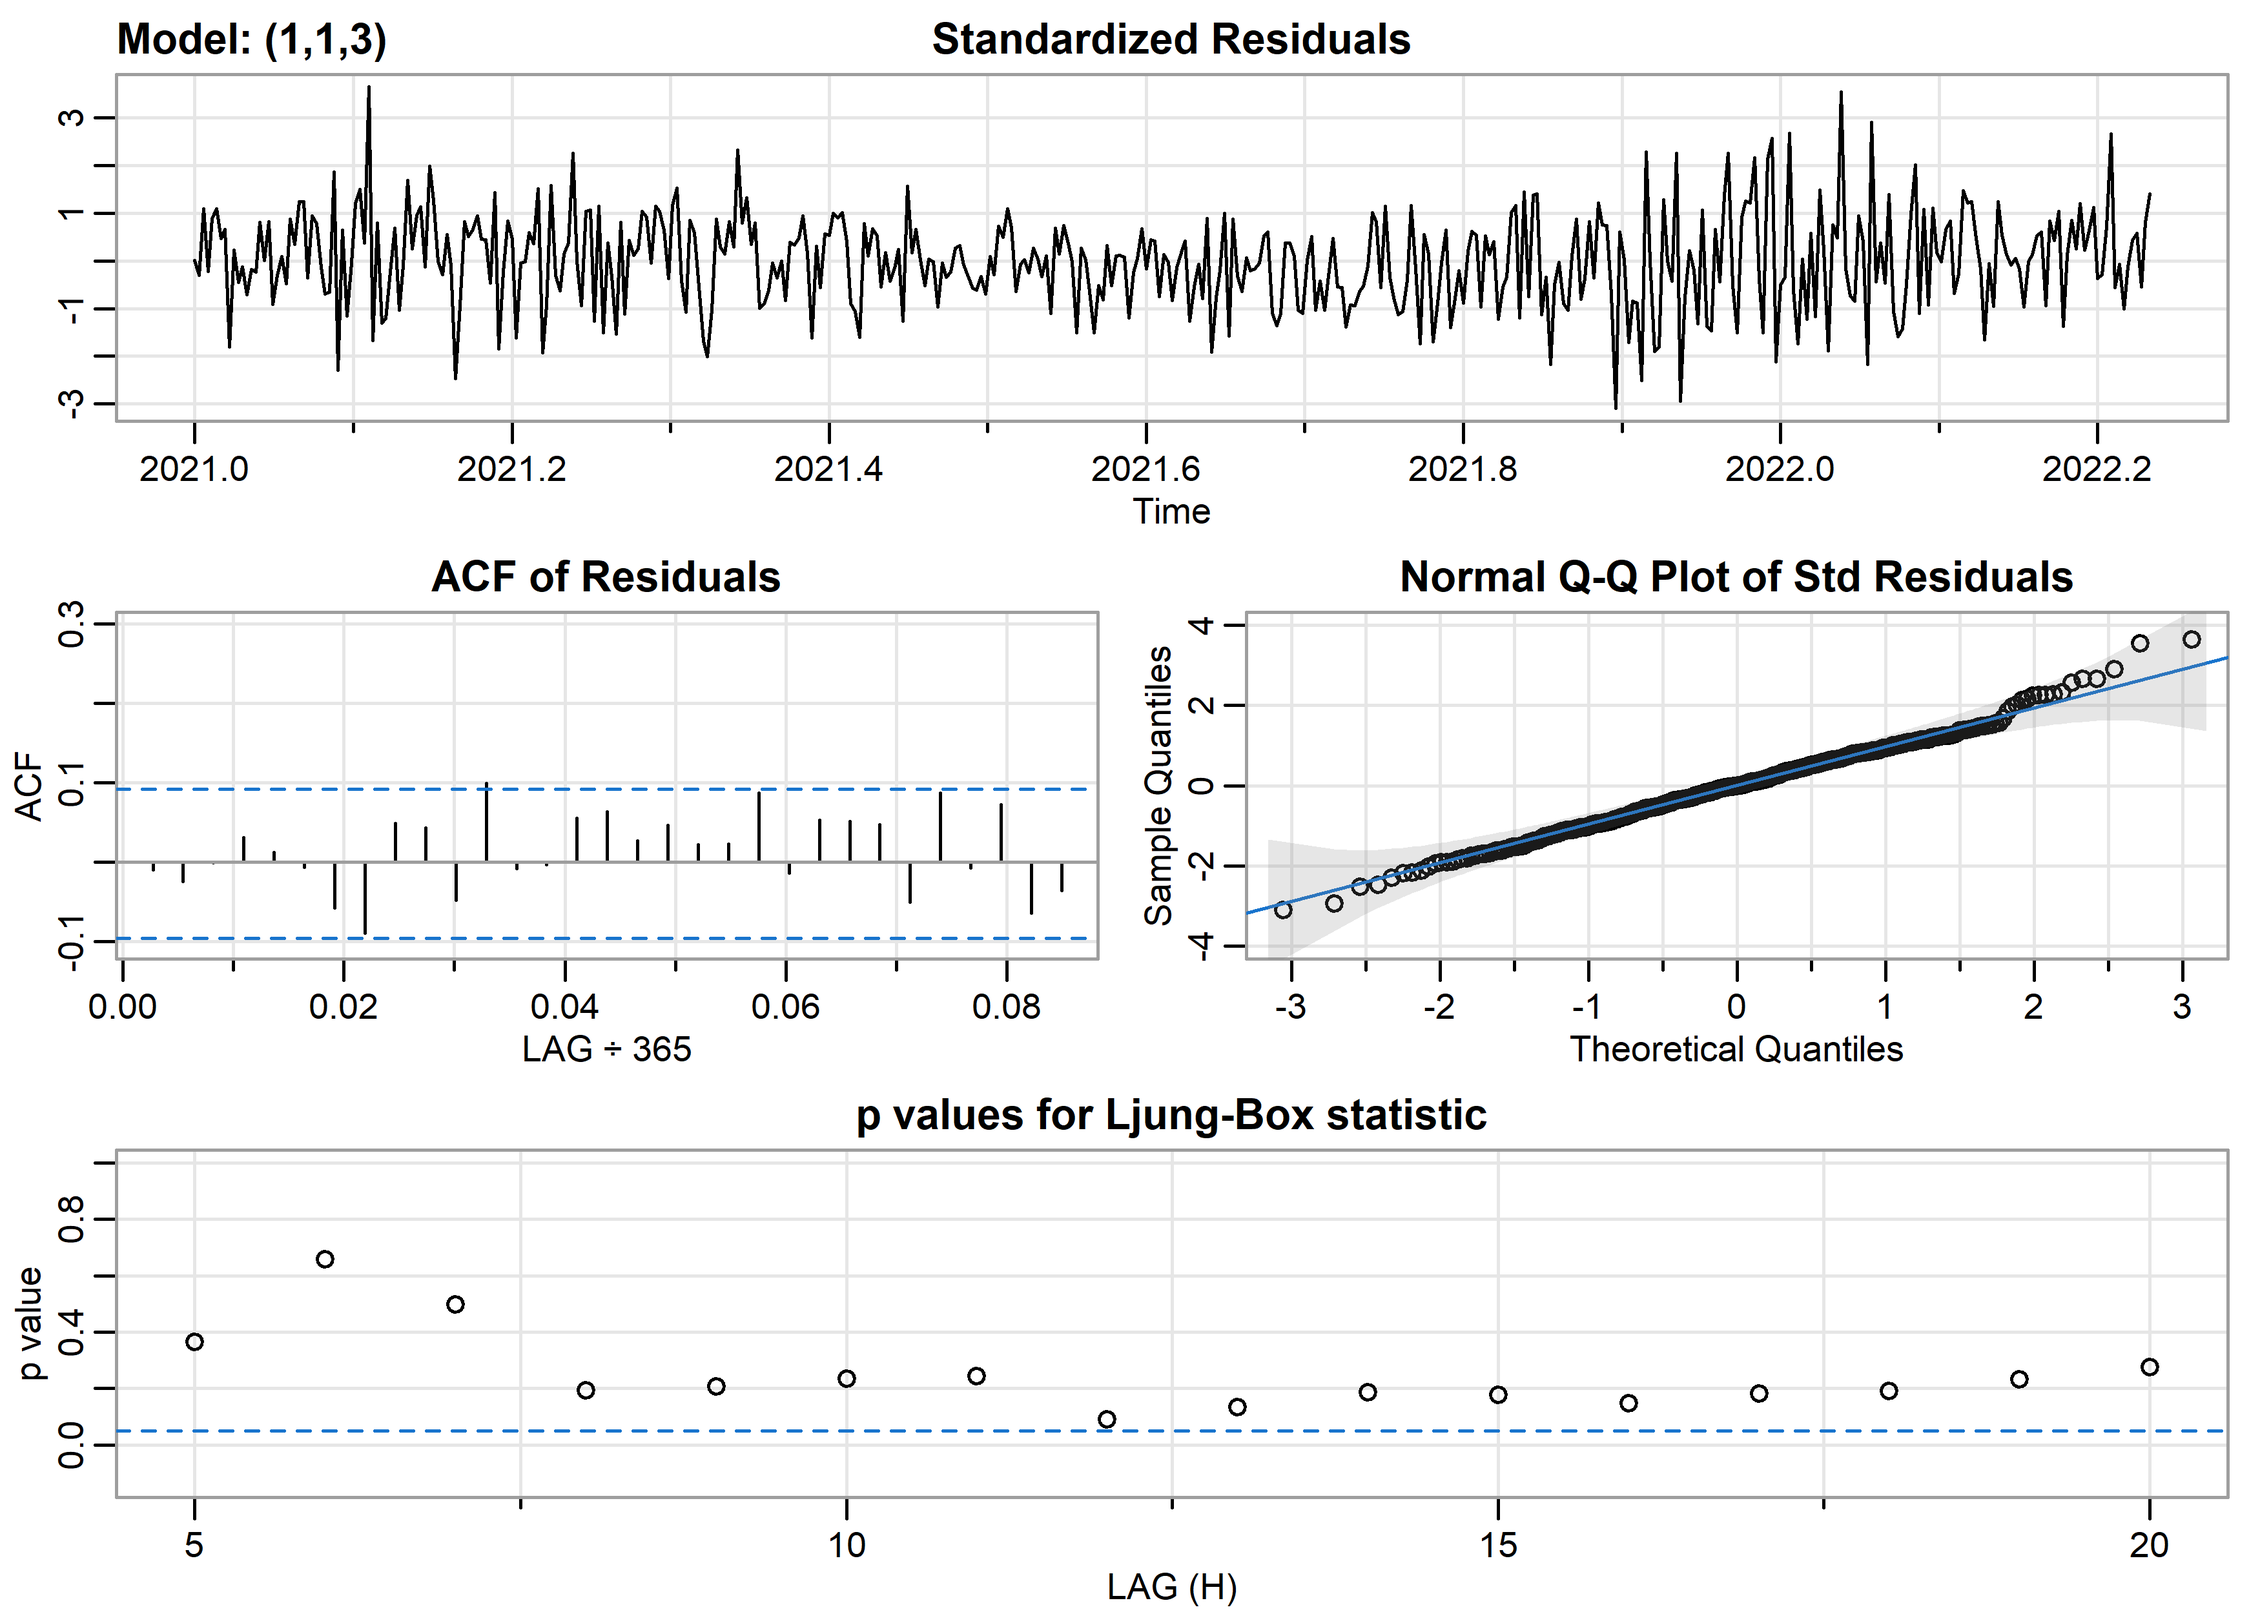
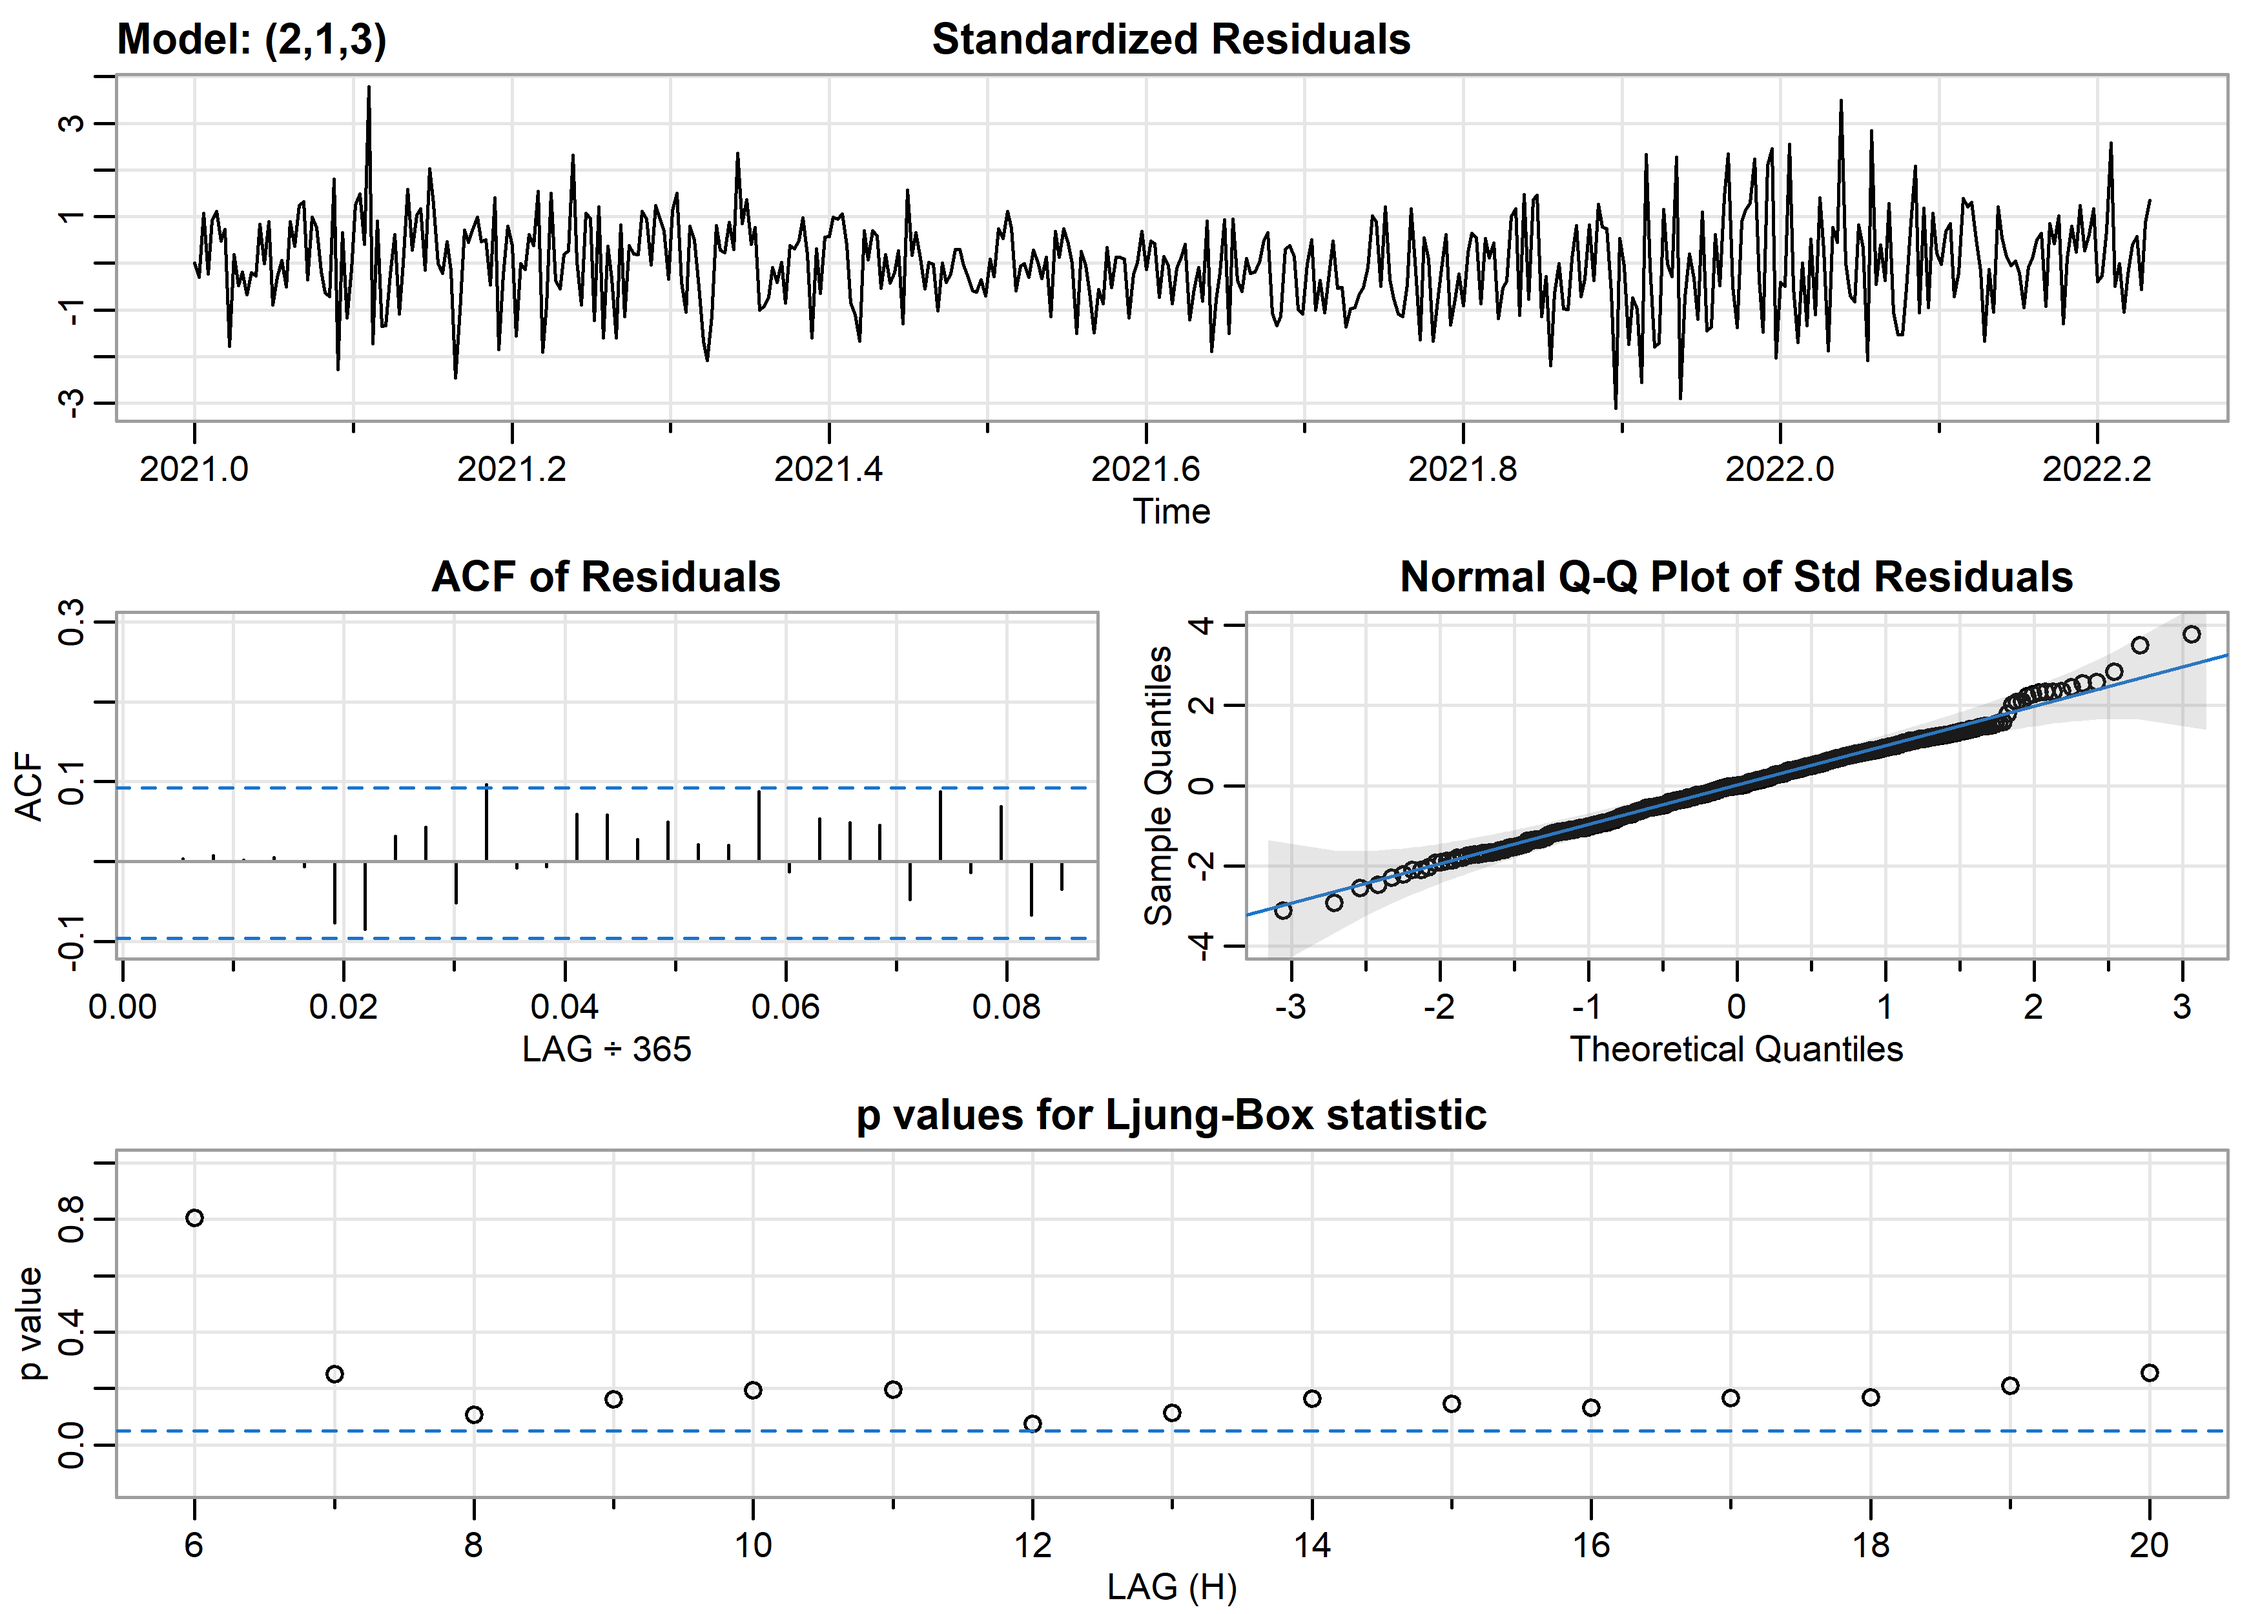
text in between code

diff --git a/12-20-22/Weather-Forecasts.md b/12-20-22/Weather-Forecasts.md
@@ -366,7 +366,10 @@ nycseries <- ny_weather %>%
 
 ### ARIMA
 
+Using the *astsa* and *forcast* packages to fit an ARIMA model.
+
 ``` r
+# convert data to a timeseries object
 nyctz <- ts(nycseries$observed_temp, start = c(2021,01,30), frequency = 365)
 ```
 
@@ -384,6 +387,101 @@ auto.arima(nyctz)
     ## 
     ## sigma^2 = 36.17:  log likelihood = -1443.8
     ## AIC=2899.6   AICc=2899.79   BIC=2924.26
+
+``` r
+sarima(nyctz, 2,1,3)
+```
+
+    ## initial  value 1.931556 
+    ## iter   2 value 1.863887
+    ## iter   3 value 1.829475
+    ## iter   4 value 1.804175
+    ## iter   5 value 1.794467
+    ## iter   6 value 1.793552
+    ## iter   7 value 1.791739
+    ## iter   8 value 1.790720
+    ## iter   9 value 1.790587
+    ## iter  10 value 1.790387
+    ## iter  11 value 1.790215
+    ## iter  12 value 1.790012
+    ## iter  13 value 1.789753
+    ## iter  14 value 1.789114
+    ## iter  15 value 1.788517
+    ## iter  16 value 1.788440
+    ## iter  17 value 1.787989
+    ## iter  18 value 1.787808
+    ## iter  19 value 1.787680
+    ## iter  20 value 1.787570
+    ## iter  21 value 1.787475
+    ## iter  22 value 1.787300
+    ## iter  23 value 1.787131
+    ## iter  24 value 1.787040
+    ## iter  25 value 1.787011
+    ## iter  26 value 1.787011
+    ## iter  26 value 1.787011
+    ## iter  26 value 1.787011
+    ## final  value 1.787011 
+    ## converged
+    ## initial  value 1.788080 
+    ## iter   2 value 1.788067
+    ## iter   3 value 1.788062
+    ## iter   4 value 1.788060
+    ## iter   5 value 1.788058
+    ## iter   6 value 1.788058
+    ## iter   7 value 1.788058
+    ## iter   8 value 1.788057
+    ## iter   9 value 1.788057
+    ## iter  10 value 1.788057
+    ## iter  11 value 1.788057
+    ## iter  12 value 1.788057
+    ## iter  12 value 1.788057
+    ## iter  12 value 1.788057
+    ## final  value 1.788057 
+    ## converged
+
+![](Weather-Forecasts_files/figure-gfm/unnamed-chunk-20-1.png)<!-- -->
+
+    ## $fit
+    ## 
+    ## Call:
+    ## arima(x = xdata, order = c(p, d, q), seasonal = list(order = c(P, D, Q), period = S), 
+    ##     xreg = constant, transform.pars = trans, fixed = fixed, optim.control = list(trace = trc, 
+    ##         REPORT = 1, reltol = tol))
+    ## 
+    ## Coefficients:
+    ##           ar1     ar2     ma1      ma2      ma3  constant
+    ##       -0.4226  -0.119  0.2837  -0.4649  -0.4022    0.0889
+    ## s.e.   0.1600   0.103  0.1541   0.0936   0.0756    0.0770
+    ## 
+    ## sigma^2 estimated as 35.66:  log likelihood = -1443.15,  aic = 2900.3
+    ## 
+    ## $degrees_of_freedom
+    ## [1] 444
+    ## 
+    ## $ttable
+    ##          Estimate     SE t.value p.value
+    ## ar1       -0.4226 0.1600 -2.6415  0.0085
+    ## ar2       -0.1190 0.1030 -1.1551  0.2487
+    ## ma1        0.2837 0.1541  1.8416  0.0662
+    ## ma2       -0.4649 0.0936 -4.9677  0.0000
+    ## ma3       -0.4022 0.0756 -5.3231  0.0000
+    ## constant   0.0889 0.0770  1.1548  0.2488
+    ## 
+    ## $AIC
+    ## [1] 6.445101
+    ## 
+    ## $AICc
+    ## [1] 6.445523
+    ## 
+    ## $BIC
+    ## [1] 6.509023
+
+The *auto.arima* function suggests that the best ARIMA model is an
+ARIMA(2,1,3). Yet, it appears as though an ARIMA(1,1,3) is a better fit
+according to the diagnostics. Furthermore, the second AR term is not
+statistically significant. This model does not take into account any
+seasonality, although it is fairly clear that there is some seasonality
+in the temperature over time.
 
 ``` r
 sarima(nyctz, 1,1,3)
@@ -430,7 +528,7 @@ sarima(nyctz, 1,1,3)
     ## final  value 1.789282 
     ## converged
 
-![](Weather-Forecasts_files/figure-gfm/unnamed-chunk-20-1.png)<!-- -->
+![](Weather-Forecasts_files/figure-gfm/unnamed-chunk-21-1.png)<!-- -->
 
     ## $fit
     ## 
@@ -470,7 +568,7 @@ sarima(nyctz, 1,1,3)
 sarima.for(nyctz, 10, 1,1,3)
 ```
 
-![](Weather-Forecasts_files/figure-gfm/unnamed-chunk-21-1.png)<!-- -->
+![](Weather-Forecasts_files/figure-gfm/unnamed-chunk-21-2.png)<!-- -->
 
     ## $pred
     ## Time Series:
@@ -494,11 +592,12 @@ sarima.for(nyctz, 10, 1,1,3)
 nycseries <- nycseries %>% 
   mutate(day = yday(date))
 
+# future dates for extrapolation
 fdates <- seq(as.Date("2022-05-30"), as.Date("2022-08-30"), by = 1) # future dates
 ```
 
 ``` r
-gam_mod <- mgcv::gam(observed_temp ~ s(day), 
+gam_mod <- mgcv::gam(observed_temp ~ s(day, bs = 'cp'), 
                      data = nycseries, 
                      method = "REML")
 summary(gam_mod)
@@ -509,22 +608,27 @@ summary(gam_mod)
     ## Link function: identity 
     ## 
     ## Formula:
-    ## observed_temp ~ s(day)
+    ## observed_temp ~ s(day, bs = "cp")
     ## 
     ## Parametric coefficients:
     ##             Estimate Std. Error t value Pr(>|t|)    
-    ## (Intercept)  55.5565     0.3311   167.8   <2e-16 ***
+    ## (Intercept)  55.5565     0.3342   166.2   <2e-16 ***
     ## ---
     ## Signif. codes:  0 '***' 0.001 '**' 0.01 '*' 0.05 '.' 0.1 ' ' 1
     ## 
     ## Approximate significance of smooth terms:
-    ##          edf Ref.df     F p-value    
-    ## s(day) 7.939  8.702 231.3  <2e-16 ***
+    ##         edf Ref.df     F p-value    
+    ## s(day) 7.11      9 218.7  <2e-16 ***
     ## ---
     ## Signif. codes:  0 '***' 0.001 '**' 0.01 '*' 0.05 '.' 0.1 ' ' 1
     ## 
-    ## R-sq.(adj) =  0.817   Deviance explained = 82.1%
-    ## -REML = 1531.8  Scale est. = 49.456    n = 451
+    ## R-sq.(adj) =  0.814   Deviance explained = 81.7%
+    ## -REML = 1537.1  Scale est. = 50.379    n = 451
+
+For the GAM, the smooth term is set to a cyclic p-spline. This is done
+in order to connect the last day of the year to the first day of the
+year. When a non-cyclic spline is fit to the data, Jan 1st has a sharp
+vertical slope.
 
 ``` r
 nycseries %>% 
@@ -574,6 +678,10 @@ summary(lm_mod)
     ## Multiple R-squared:  0.8137, Adjusted R-squared:  0.8121 
     ## F-statistic: 487.1 on 4 and 446 DF,  p-value: < 2.2e-16
 
+Given the nature of this oscillating curve, it is quite easy to fit a
+polynomial model to fit the data. From the looks of it, this function
+appears to have 3 - 4 roots, and thus a 4 degree polynomial is fit.
+
 ``` r
 nycseries %>% 
   mutate(pred = predict(lm_mod, .)) %>% 
@@ -588,3 +696,6 @@ nycseries %>%
 ```
 
 ![](Weather-Forecasts_files/figure-gfm/unnamed-chunk-26-1.png)<!-- -->
+
+It can be observed that the 4 degree polynomial is almost
+indistinguishable from the GAM fit.
